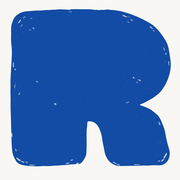
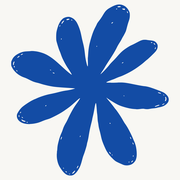
ロゴを青い花に差し替え（SVG・PNG・アイコン・OGP画像を再生成）
Claude-Session: https://claude.ai/code/session_01XpsQxpnmwaJDffnnZe1KsW

diff --git a/public/index.html b/public/index.html
@@ -12,7 +12,7 @@
 <meta property="og:title" content="sun_r nail salon">
 <meta property="og:description" content="完全予約制のプライベートネイルサロン sun_r。ご予約はホットペッパービューティーから。">
 <meta property="og:type" content="website">
-<meta property="og:image" content="https://sun-r-nail.pages.dev/images/og-image.png">
+<meta property="og:image" content="https://sun-r-nail.pages.dev/images/og-image.png?v=2">
 <meta property="og:image:width" content="1200">
 <meta property="og:image:height" content="630">
 <meta name="twitter:card" content="summary">

diff --git a/CLAUDE.md b/CLAUDE.md
@@ -22,12 +22,15 @@
 ```
 public/
   index.html        完成品。CSS・JSはインライン、ロゴはdata URIで埋め込み済み
-  images/logo.svg   ロゴ（青い手描きの「R」、背景透過）
+  images/logo.svg   ロゴ（青い手描きの花、背景透過）
   images/logo.png   同 PNG 2000px 透過
-  images/logo-ivory.png  同 PNG 2000px 生成り背景（OGP用）
+  images/logo-ivory.png  同 PNG 2000px 生成り背景
+  images/og-image.png    OGP用 1200x630（生成り地の中央にロゴ）
+  images/apple-touch-icon.png  180px
 docs/
   spec.md           デザイン・仕様書（色・フォント・構成・料金・アニメーション・波の音）
   logo-with-SUN.svg 「SUN」文字入りの旧ロゴ（参考。サイトでは使わない）
+  logo-R.svg        青い「R」の旧ロゴ（参考。サイトでは使わない）
 wrangler.jsonc      Cloudflare 設定（public/ を静的配信）
 ```
 
